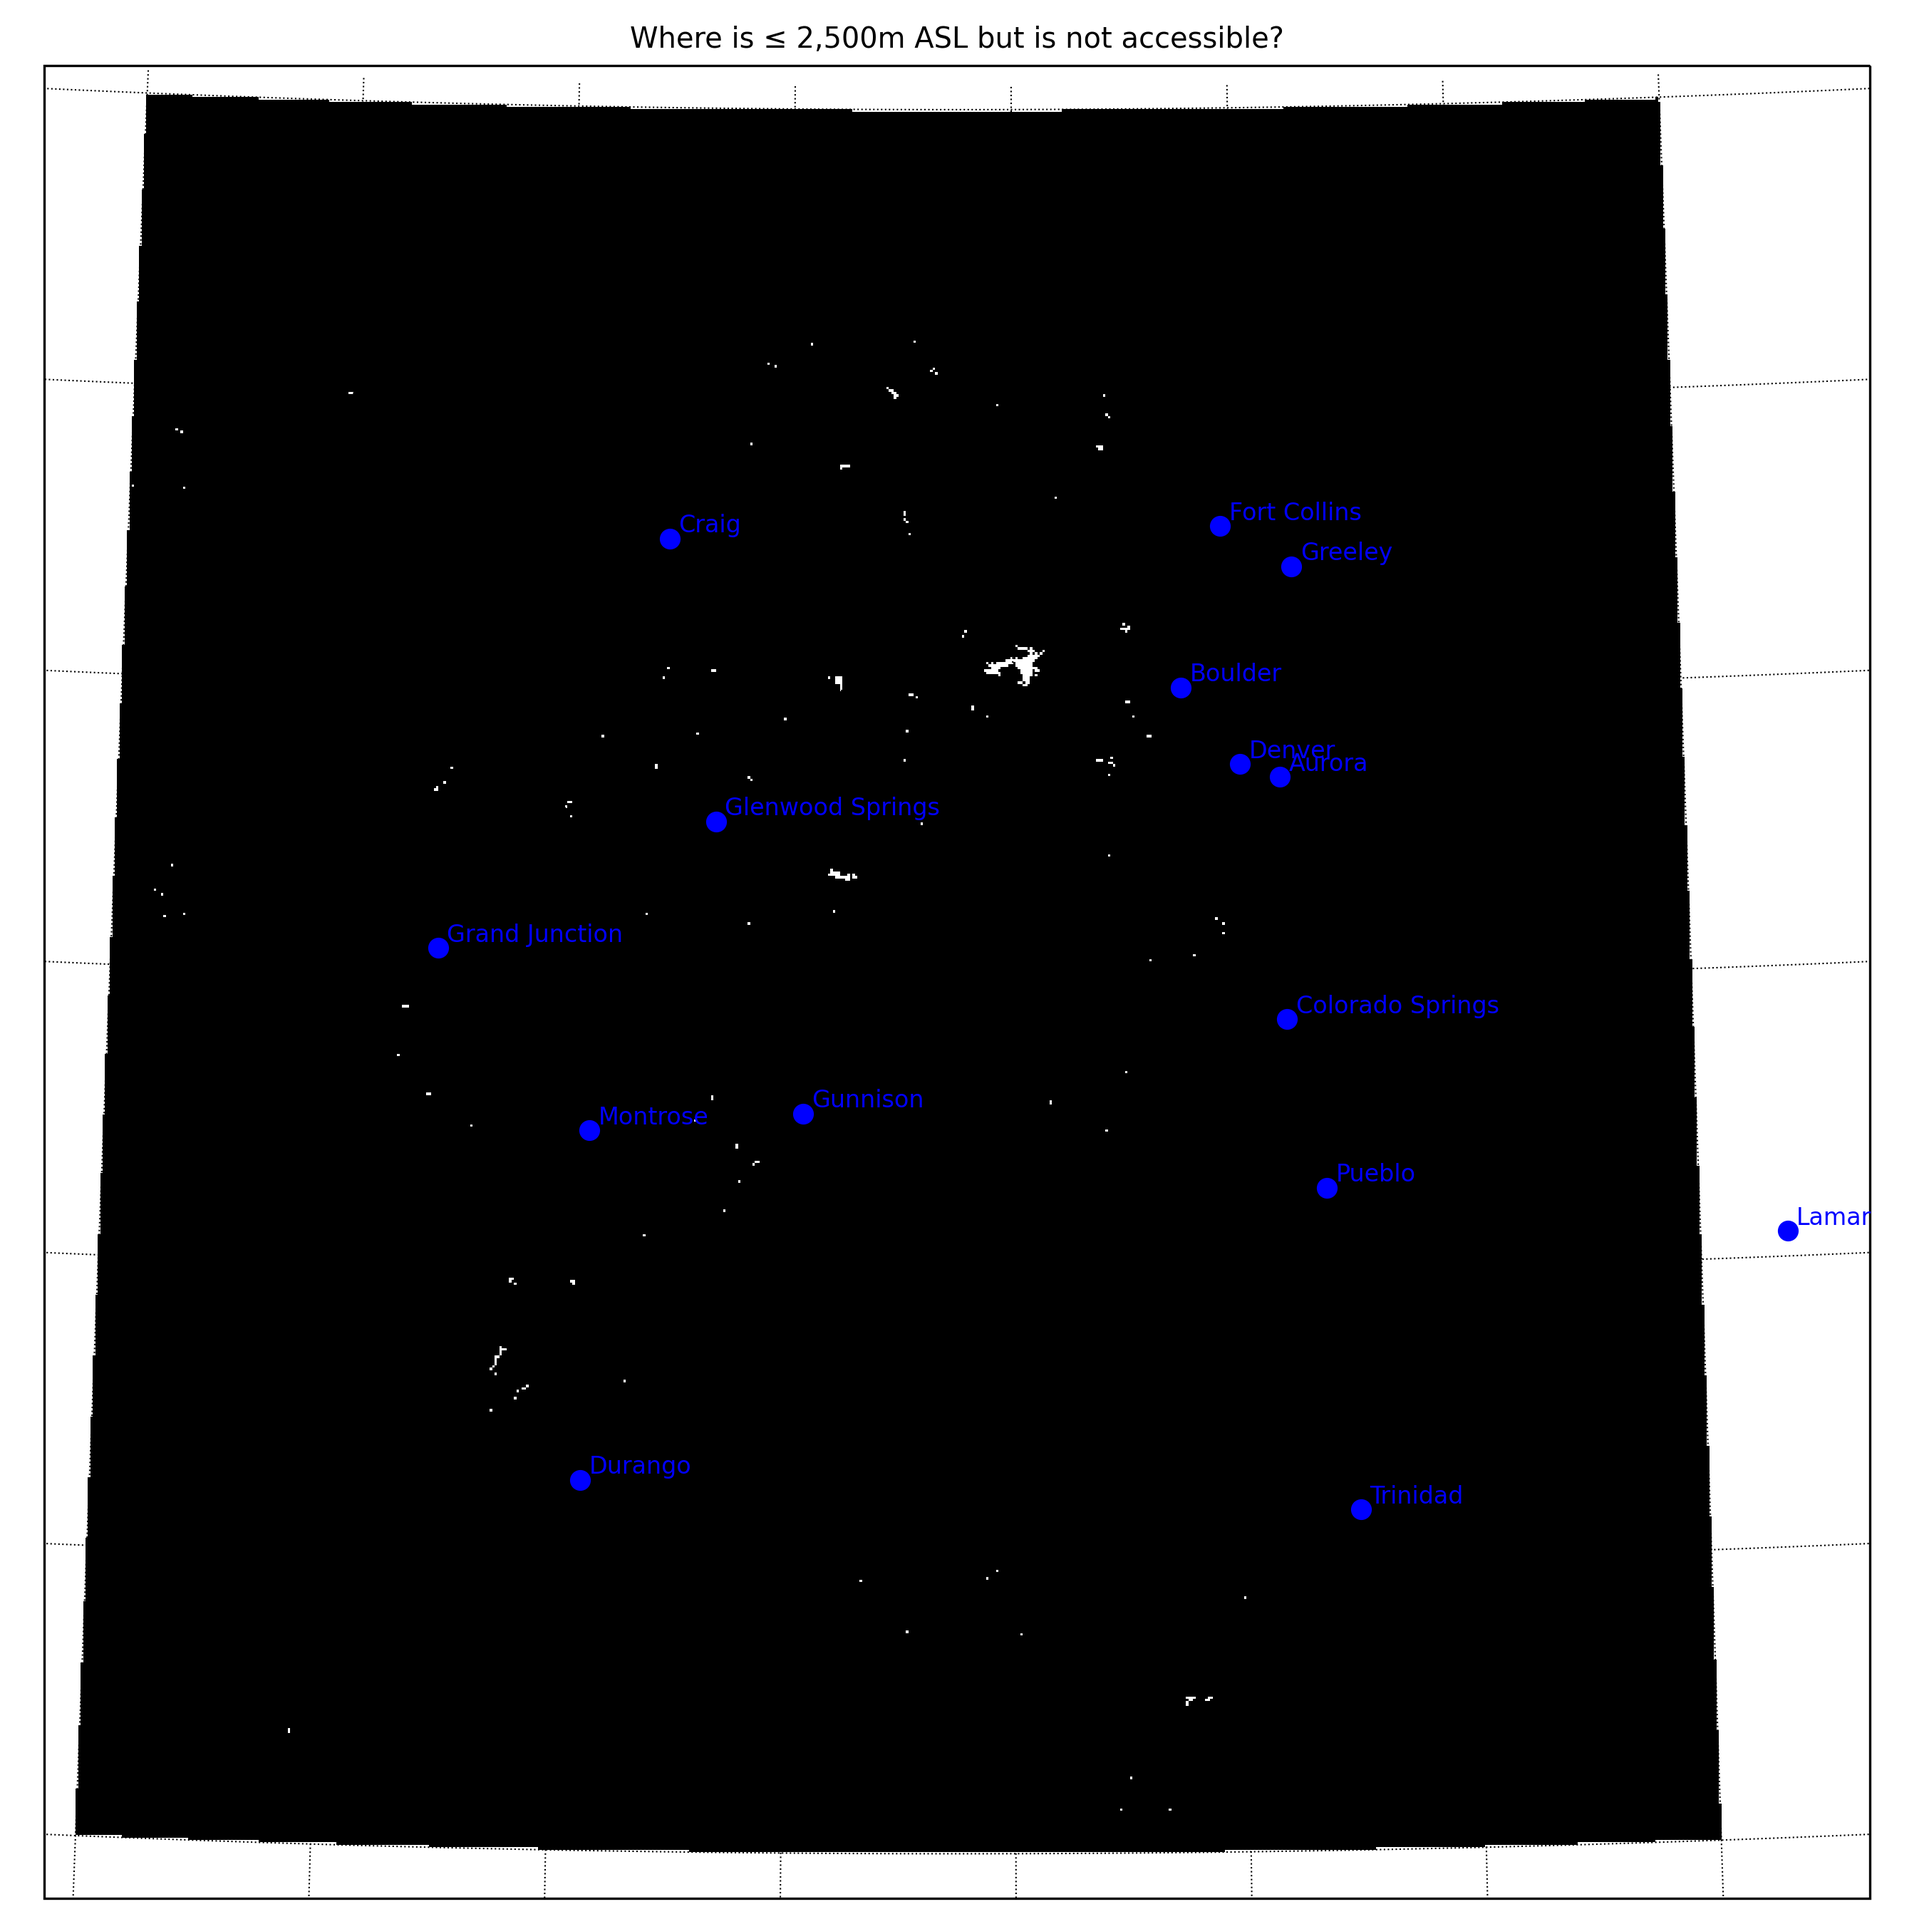
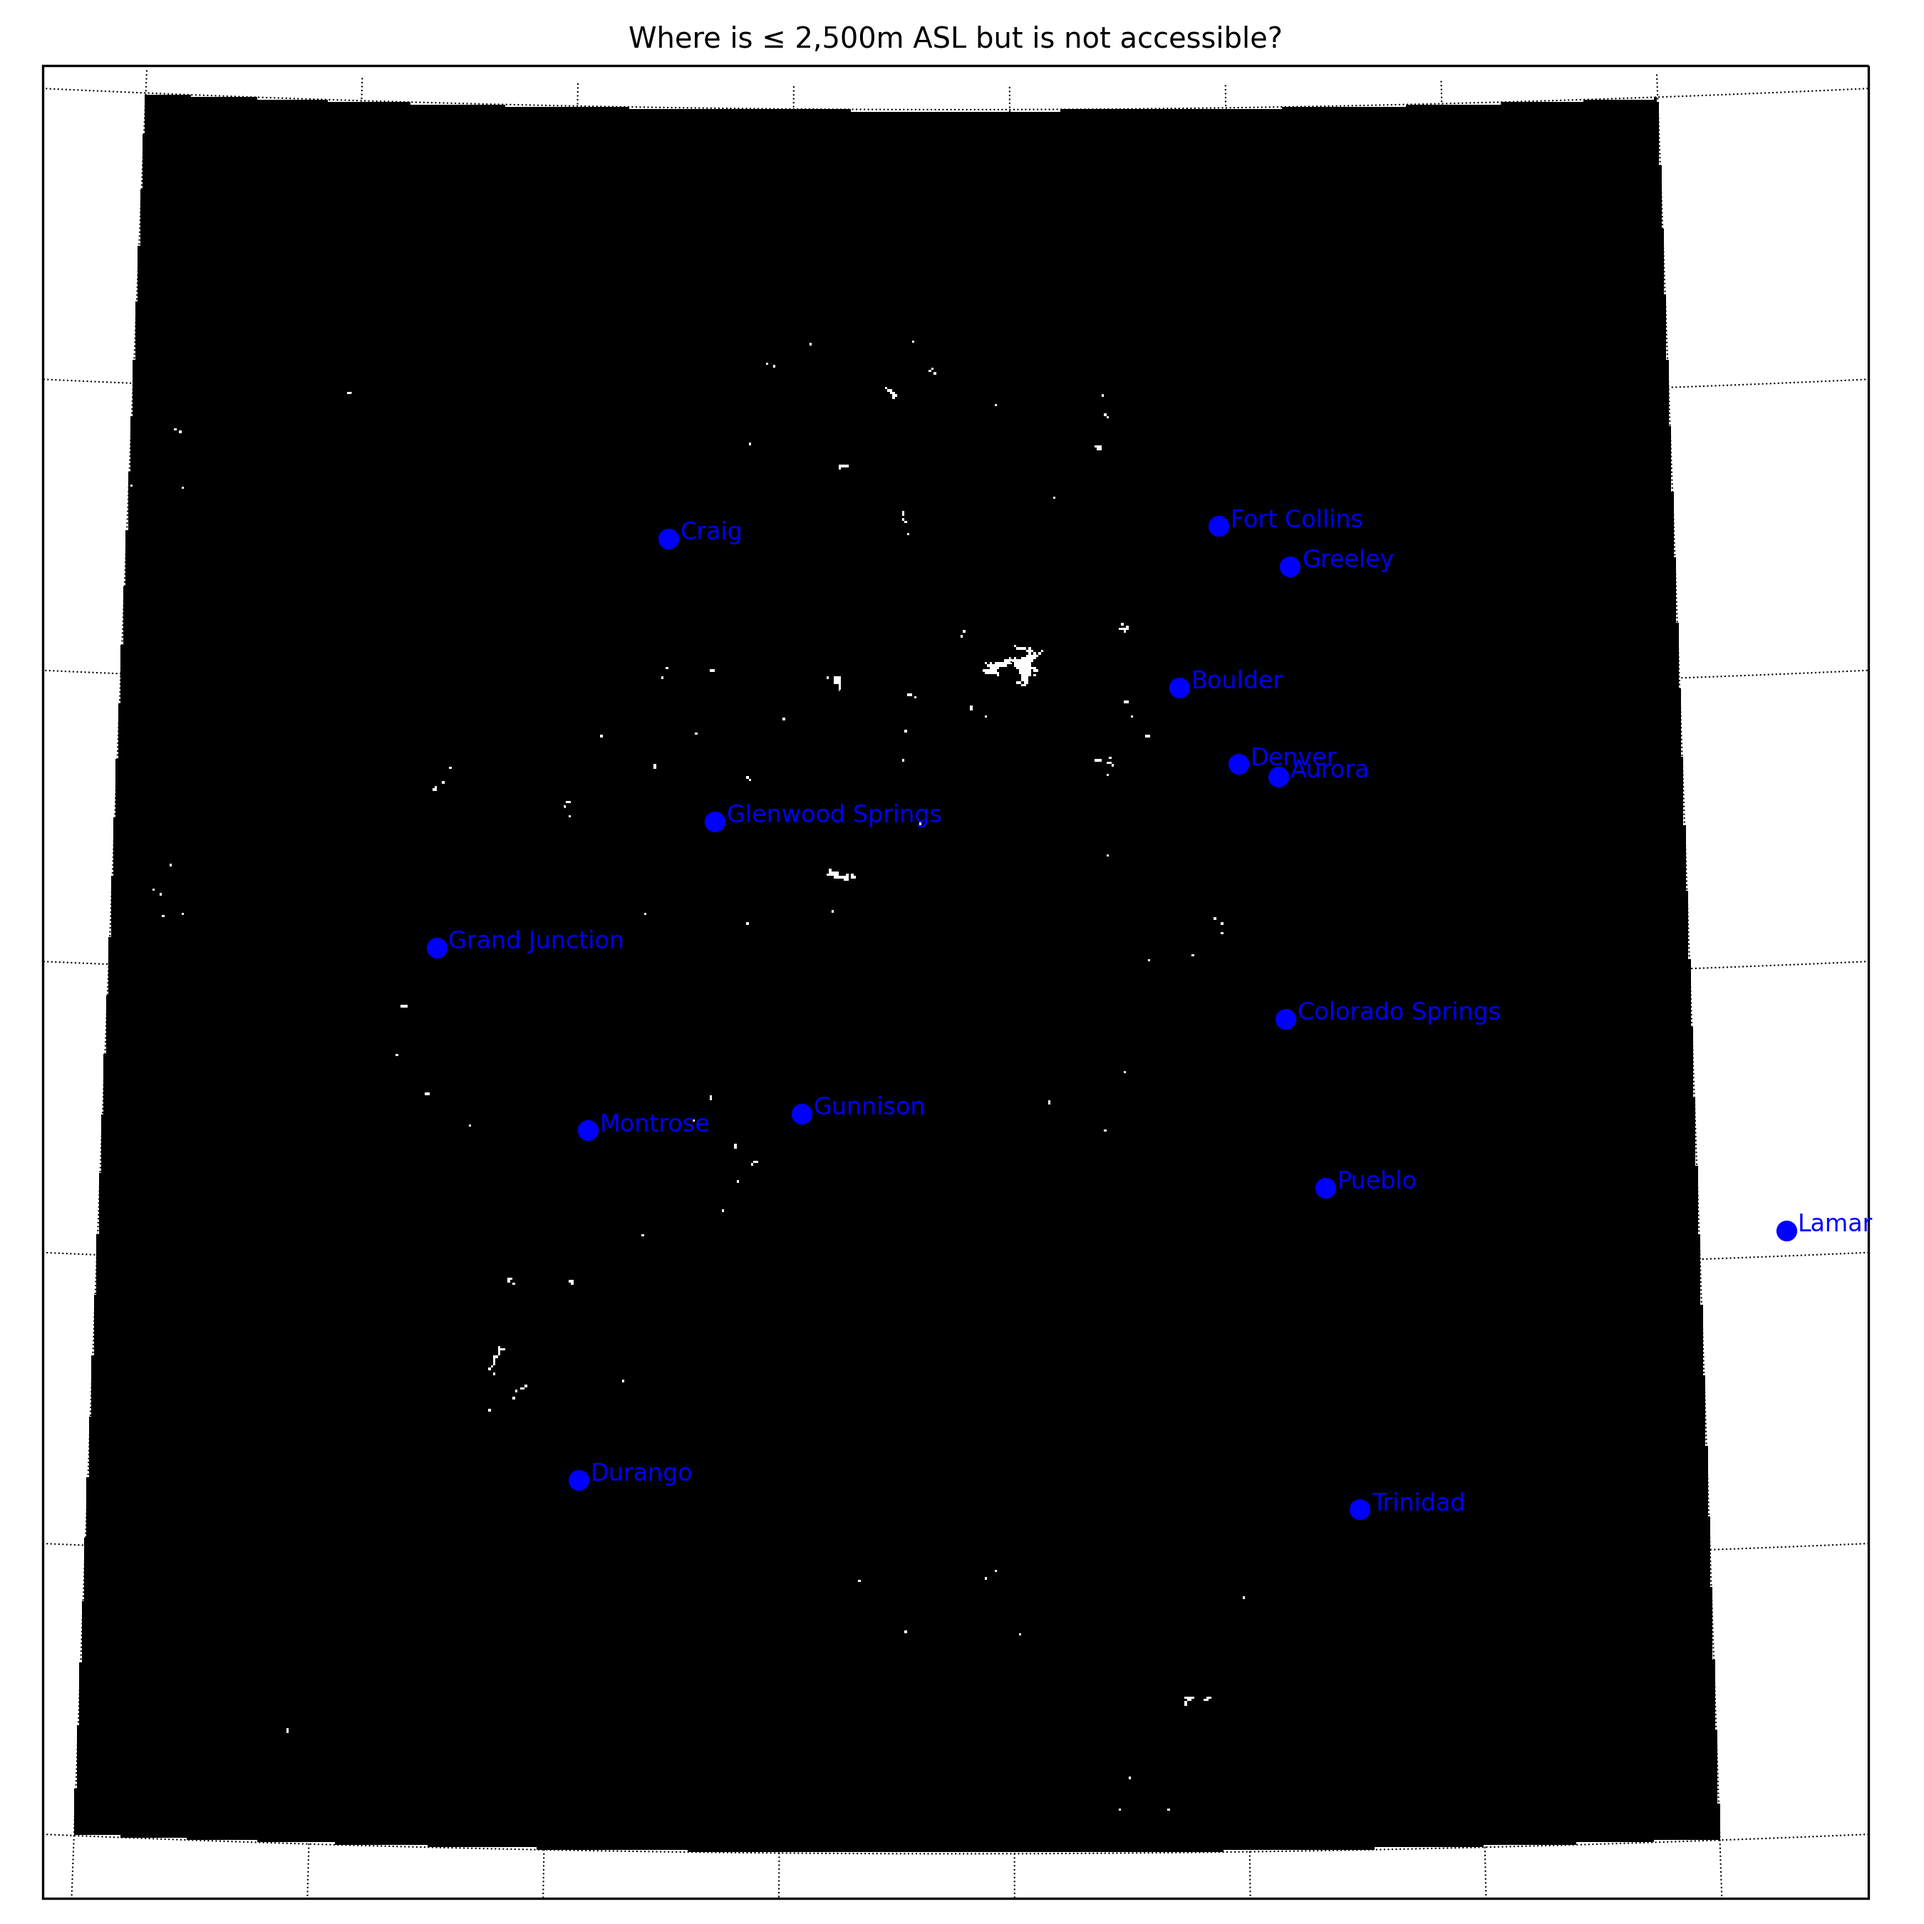
use new helper function

diff --git a/makePlots.py b/makePlots.py
@@ -172,7 +172,6 @@ if __name__ == "__main__":
                     # Check that populated place is in Colorado ...
                     if neAdmin1Name == "Colorado":
                         # Annotate the plot ...
-                        # NOTE: https://stackoverflow.com/a/25421922
                         ax.plot(
                             record.geometry.x,
                             record.geometry.y,
@@ -180,13 +179,15 @@ if __name__ == "__main__":
                                 color = "blue",
                             transform = cartopy.crs.PlateCarree(),
                         )
-                        ax.annotate(
+                        pyguymer3.geo.add_annotation(
+                            ax,
+                            record.geometry.x,
+                            record.geometry.y,
                             neName,
-                                 color = "blue",
-                            textcoords = "offset points",
-                                    xy = (record.geometry.x, record.geometry.y),
-                              xycoords = cartopy.crs.PlateCarree()._as_mpl_transform(ax),
-                                xytext = (3, 2),
+                                      colorName = "blue",
+                            horizontalalignment = "left",
+                                     txtOffsetX = 4,
+                                     txtOffsetY = 2,
                         )
 
             # Configure figure ...
